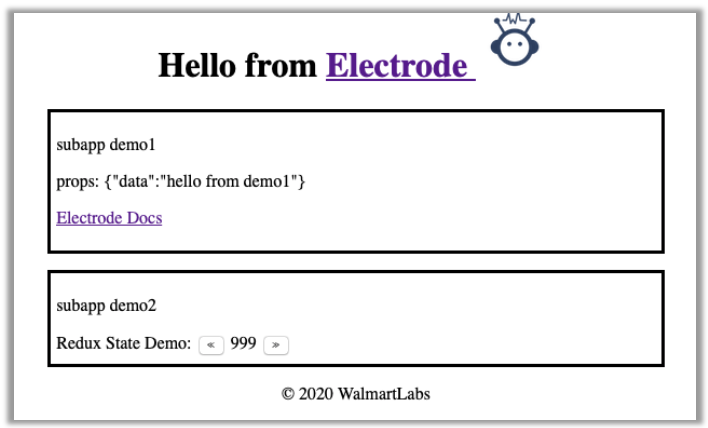
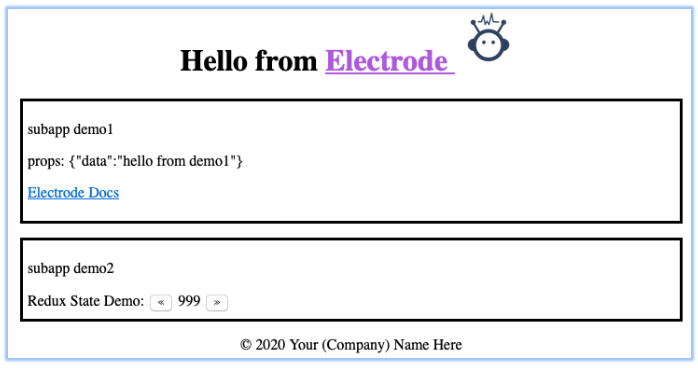
Update image
updated image removing WMT footer

Changed region(s): [[0.0, 0.0, 1.0, 1.0]]

diff --git a/README.md b/README.md
@@ -1,14 +1,7 @@
-<p align="center">
-<a><img src="https://raw.githubusercontent.com/electrode-io/electrode/cc4ea3e1851cee3333ecca08fdbf5534f51b1ae7/samples/universal-react-node/client/images/logo-192x192.png" alt="Electrode Logo"></a>
-<br>
-<b>Electrode</b>
-</p>
 
 # Building large scale universal React Web Applications
 
-Electrode was developed by Walmart Labs in 2016 as an internal rapid application development framework for Walmart. Electrode is one of the technology engines powering the <http://www.walmart.com> eCommerce website.
-
-Electrode Web is a rapid application development framework; a full stack, end-to-end platform for developing, deploying, and maintaining JavaScript applications at Walmart.
+Electrode Web is a rapid application development framework; a full stack, end-to-end platform for developing, deploying, and maintaining JavaScript applications at Walmart, afor the <http://www.walmart.com> eCommerce website.
 
 We maintain additional code to support internal systems.
 > If you are a Walmart developer, please check internal docs to get started.
